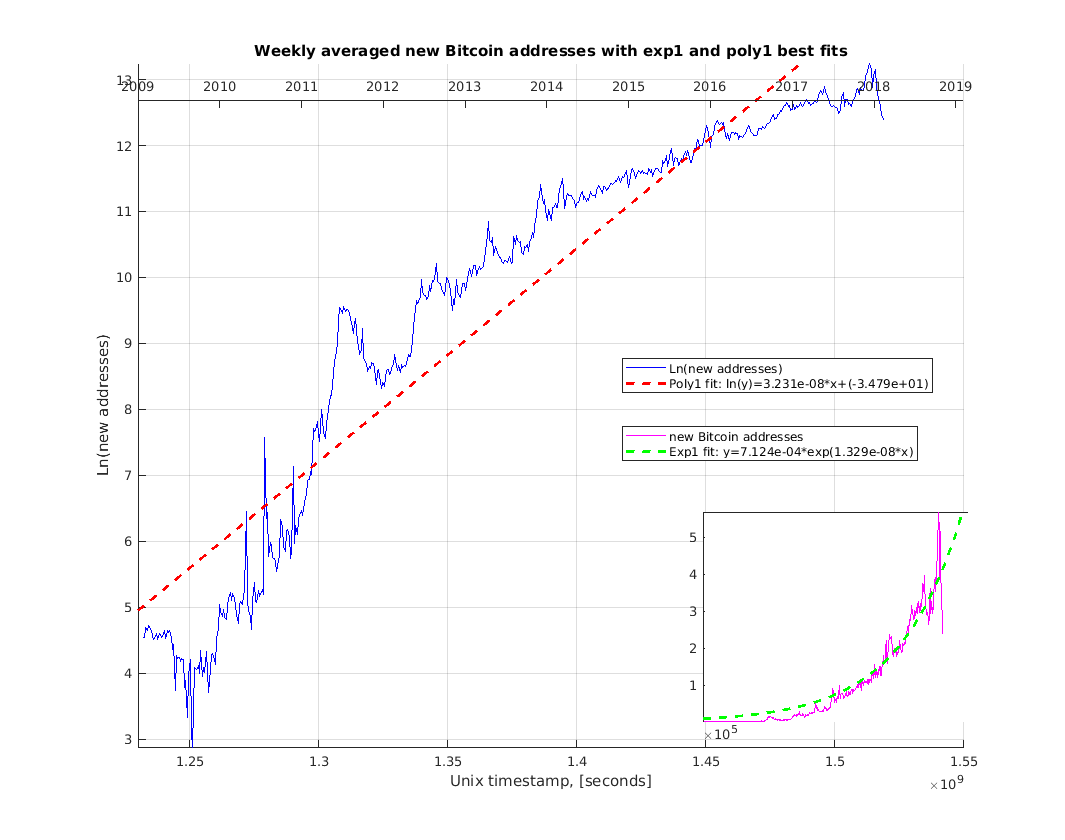
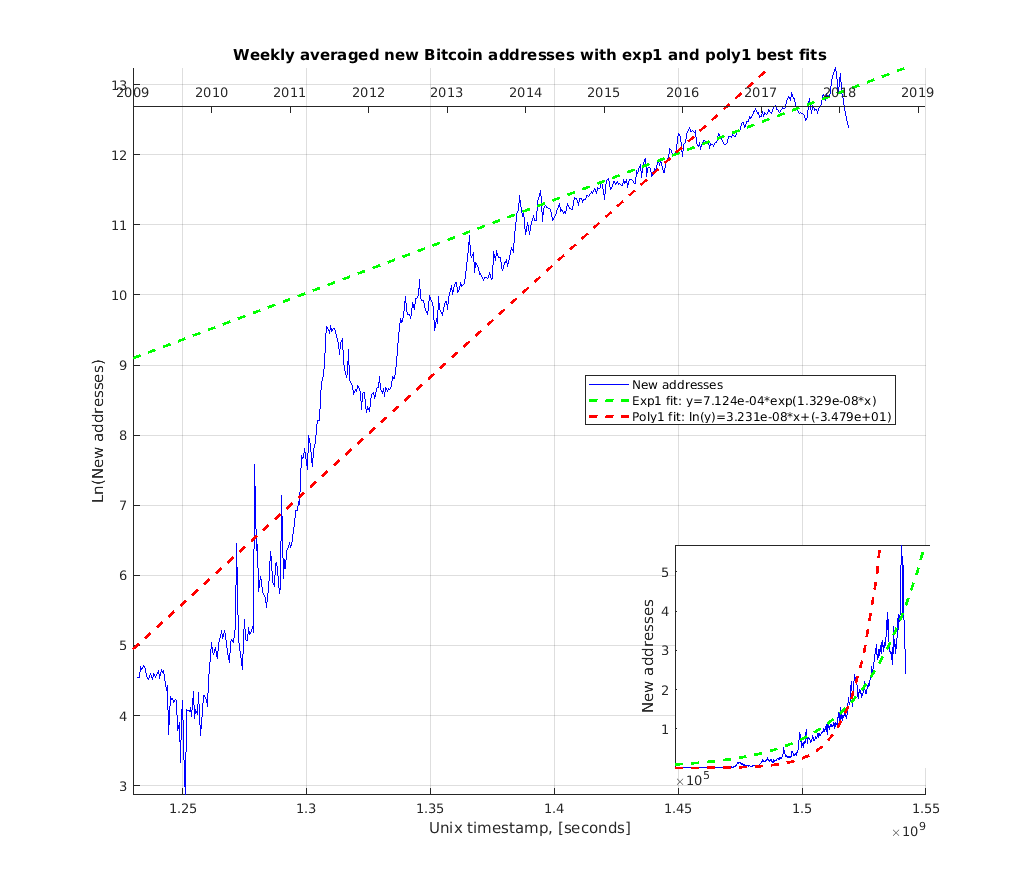
plot both exp1 and poly1 trends on ln and linear plots;

diff --git a/functions/plotBlockchainStats.m b/functions/plotBlockchainStats.m
@@ -13,8 +13,10 @@ timepastfut = linspace(minTime,maxTime,20);
 % fit data
 fitexp = fit(time,stats,'exp1');
 fitexpext = fitexp.a*exp(fitexp.b*timepastfut(:));
+lnfitexpext = log(fitexpext);
 fitpoly = fit(time,lnstats,'poly1');
 fitpolyext = fitpoly.p1*timepastfut(:)+fitpoly.p2;
+expfitpolyext = exp(fitpolyext);
 
 % Plot daily price chart
 figure(2)
@@ -26,27 +28,31 @@ xlim([minTime maxTime]);
 ylim([min(lnstats(:)) max(lnstats(:))]);
 
 plot(time,lnstats,'b');
+plot(timepastfut,lnfitexpext,'g--','LineWidth',2);
 plot(timepastfut,fitpolyext,'r--','LineWidth',2);
 
 % uncomment respective titles
-%stattit = 'Bitcoin days destroyed (BDD)';
-%statx = 'Ln(BDD)';
+stattit = 'Bitcoin days destroyed (BDD)';
+staty = 'BDD';
 %stattit = 'Bitcoin block size';
-%statx = 'Ln(block size, [bytes]),';
+%staty = 'Block size, [bytes]';
 %stattit = 'total Bitcoin addresses';
-%statx = 'Ln(total addresses)';
+%staty = 'Total addresses';
 %stattit = 'accepted Bitcoin transactions';
-%statx = 'Ln(accepted transactions)';
+%staty = 'Accepted transactions';
 %stattit = 'Bitcoin UTXOs';
-%statx = 'Ln(UTXOs)';
-stattit = 'new Bitcoin addresses';
-statx = 'Ln(new addresses)';
+%staty = 'UTXOs';
+%stattit = 'new Bitcoin addresses';
+%staty = 'New addresses';
+
+lnstaty = sprintf('Ln(%s)',staty);
 
 title(sprintf('Weekly averaged %s with exp1 and poly1 best fits',stattit))
-ylabel(statx)
+ylabel(lnstaty)
 xlabel('Unix timestamp, [seconds]')
 %xtickformat('y');
-legend(statx,...
+legend(staty,...
+    sprintf('Exp1 fit: y=%.3e*exp(%.3e*x)',fitexp.a,fitexp.b),...
     sprintf('Poly1 fit: ln(y)=%.3e*x+(%.3e)',fitpoly.p1,fitpoly.p2));
 
 % axis for years
@@ -62,14 +68,14 @@ ax3 = axes('Position',[.66 .14 .25 .25],...
 
 hold on;
 
-plot(time,stats,'m');
+plot(time,stats,'b');
 plot(timepastfut,fitexpext,'g--','LineWidth',2);
+plot(timepastfut,expfitpolyext,'r--','LineWidth',2);
 
-set(ax3,'XTick',[],'XLabel',[],'YLabel',[],...
-    'XLim',[minTime maxTime],'YLim',[min(stats(:)) max(stats(:))]);
-
-legend(stattit,...
-    sprintf('Exp1 fit: y=%.3e*exp(%.3e*x)',fitexp.a,fitexp.b));
-
+ylabel(ax3,staty);
+ax3.XTick = [];
+ax3.XLabel = [];
+ax3.XLim = [minTime maxTime];
+ax3.YLim = [min(stats(:)) max(stats(:))];
 
 end
